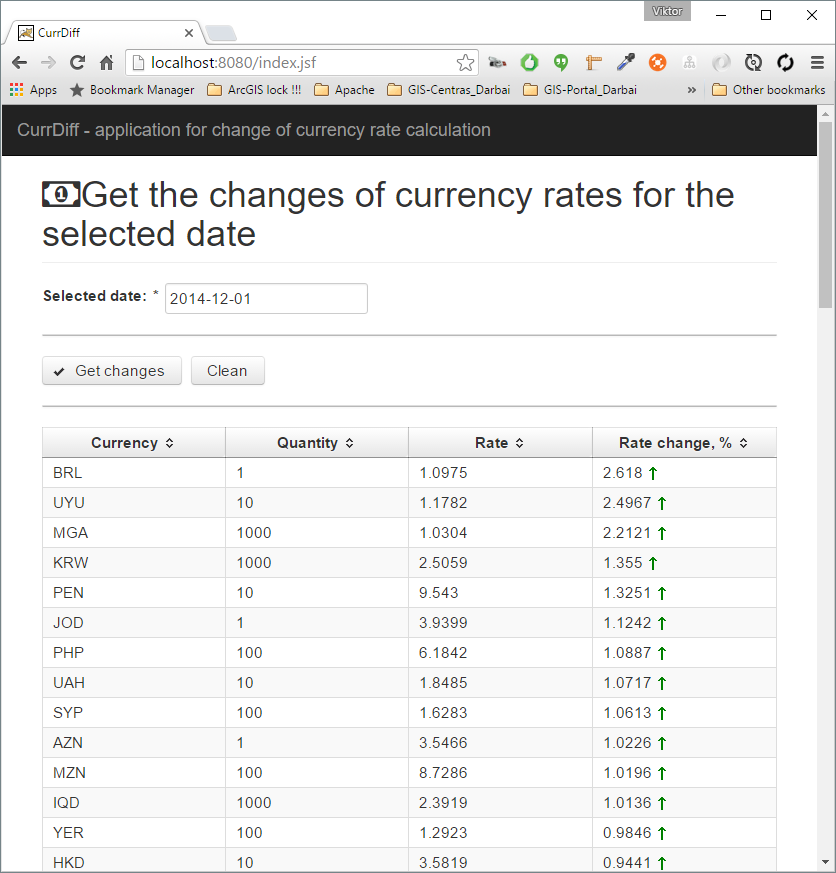
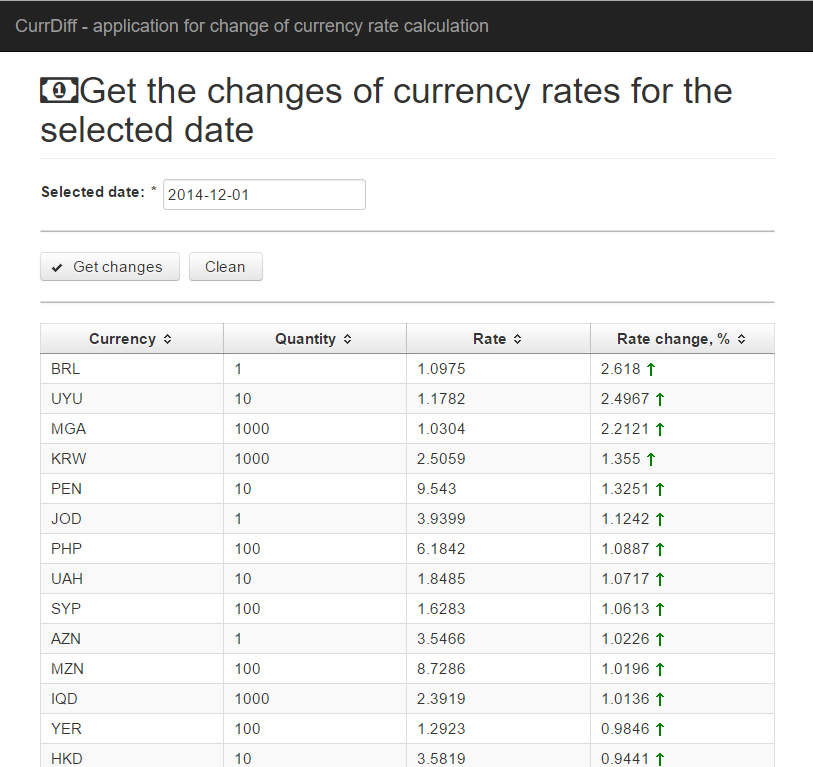
Added principal application schema.

Changed region(s): [[0.0, 0.0, 1.0, 1.0]]

diff --git a/README.md b/README.md
@@ -2,7 +2,9 @@
 
 CurrDiff - simple web page application
 ===================
-CurrDiff is a simple web page application that can be used for getting exchange rate changes by using remote Lithuanian National Bank service.
+CurrDiff is a simple web page application that can be used for getting exchange rate changes by using remote Lithuanian National Bank service. Exchange rate changes by default are ordered in descending order.
+
+![image](https://raw.githubusercontent.com/viktornar/currdiff/master/images/application.png)
 
 The main technologies (frameworks, libraries) that was used in project
 -------------
